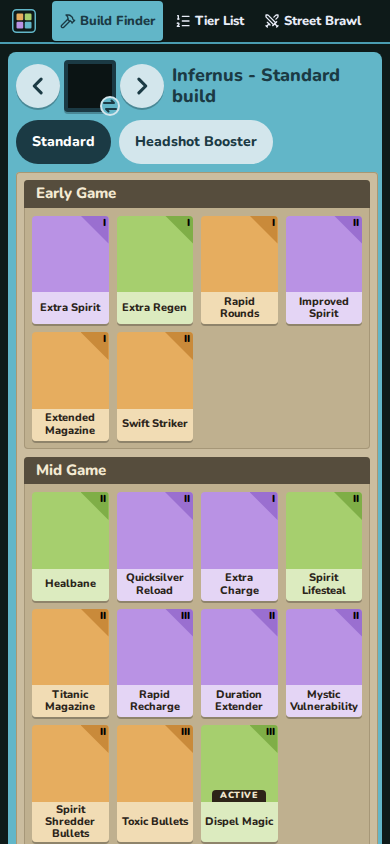
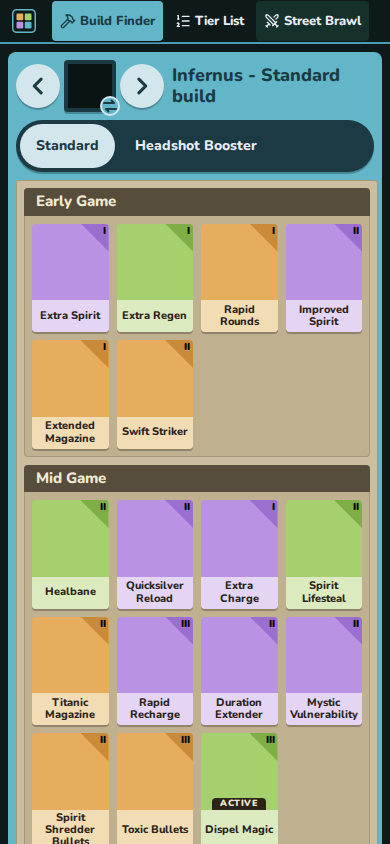
Hero portrait: two persistent imgs so rapid arrow clicks can't stack; build pills in a selector track
Claude-Session: https://claude.ai/code/session_012haXBU2g77nrAY4uXTCCai

diff --git a/src/App.tsx b/src/App.tsx
@@ -1,4 +1,4 @@
-import { useEffect, useMemo, useReducer, useState } from 'react';
+import { useEffect, useLayoutEffect, useMemo, useReducer, useRef, useState } from 'react';
 import type { Ability, Build, Hero, HeroAnalytics, Item } from './types';
 import { heroBackdrop, img, loadAnalytics, loadCore, preloadImage, type Manifest } from './data/load';
 import { generateBuilds } from './generator';
@@ -191,6 +191,43 @@ function useUrlState(active: boolean) {
   return { heroSlug, styleSlug, pickHero, pickStyle };
 }
 
+// Hero card portrait. Exactly two <img> elements live here forever (in and out); a step slides the
+// old hero out and the new one in with the Web Animations API, so rapid clicks can never leave a
+// stray portrait in the DOM the way keyed mount/unmount did.
+function HeroPortrait({ hero, dir, n }: { hero: Hero; dir: -1 | 0 | 1; n: number }) {
+  const inRef = useRef<HTMLImageElement>(null);
+  const outRef = useRef<HTMLImageElement>(null);
+  const prev = useRef<Hero>(hero);
+  const anims = useRef<Animation[]>([]);
+  const src = (h: Hero) => img(h.images.card ?? h.images.small);
+  useLayoutEffect(() => {
+    const before = prev.current;
+    prev.current = hero;
+    const inEl = inRef.current;
+    const outEl = outRef.current;
+    if (!inEl || !outEl) return;
+    anims.current.forEach((a) => a.cancel());
+    anims.current = [];
+    outEl.style.display = 'none';
+    if (!dir || before.id === hero.id || window.matchMedia('(prefers-reduced-motion: reduce)').matches) return;
+    outEl.src = src(before) ?? '';
+    Object.assign(outEl.style, heroBackdrop(before.id), { display: 'block' });
+    const opts = { duration: 240, easing: 'ease-out' };
+    const a1 = inEl.animate([{ transform: `translateX(${dir * 100}%)` }, { transform: 'translateX(0)' }], opts);
+    const a2 = outEl.animate([{ transform: 'translateX(0)' }, { transform: `translateX(${-dir * 100}%)` }], { ...opts, fill: 'forwards' as FillMode });
+    anims.current = [a1, a2];
+    a2.onfinish = () => {
+      outEl.style.display = 'none';
+    };
+  }, [hero.id, n]); // eslint-disable-line react-hooks/exhaustive-deps
+  return (
+    <span className="hero-stage">
+      <img ref={inRef} className="hero-in" src={src(hero)} alt="" width={280} height={380} style={heroBackdrop(hero.id)} />
+      <img ref={outRef} className="hero-out" src="" alt="" aria-hidden="true" width={280} height={380} style={{ display: 'none' }} />
+    </span>
+  );
+}
+
 export default function App({ active = true }: { active?: boolean }) {
   const { items, heroes, abilities, manifest, error } = useCore();
   const { heroSlug, styleSlug, pickHero, pickStyle } = useUrlState(active);
@@ -241,17 +278,11 @@ export default function App({ active = true }: { active?: boolean }) {
     pickHero(slugify(h.name));
   };
   const [slide, setSlide] = useState<{ dir: -1 | 0 | 1; n: number }>({ dir: 0, n: 0 });
-  // the portrait that just left, drawn on top while it slides out
-  const [leaving, setLeaving] = useState<{ hero: Hero; dir: -1 | 1; n: number } | null>(null);
-  const pickFromList = (h: Hero) => {
-    setLeaving(null);
-    selectHero(h);
-  };
+  const pickFromList = (h: Hero) => selectHero(h);
   const stepHero = (d: -1 | 1) => {
     const i = heroes.findIndex((h) => h.id === heroId);
     const next = heroes[(i + d + heroes.length) % heroes.length];
     if (next) {
-      if (hero) setLeaving((l) => ({ hero, dir: d, n: (l?.n ?? 0) + 1 }));
       selectHero(next);
       setSlide((s) => ({ dir: d, n: s.n + 1 }));
     }
@@ -272,10 +303,7 @@ export default function App({ active = true }: { active?: boolean }) {
 
   const [heroesOpen, setHeroesOpen] = useState(false);
   // display:none -> shown restarts CSS animations; drop the slide state while hidden so switching pages plays nothing
-  if (!active && (slide.dir !== 0 || leaving)) {
-    setSlide((s) => ({ dir: 0, n: s.n }));
-    setLeaving(null);
-  }
+  if (!active && slide.dir !== 0) setSlide((s) => ({ dir: 0, n: s.n }));
 
   if (error)
     return (
@@ -302,30 +330,7 @@ export default function App({ active = true }: { active?: boolean }) {
         <aside className="hero-side">
           <div className="hero-card">
             <button className="hero-face hero-btn" onClick={() => setHeroesOpen(true)} aria-label={`${hero.name}, change hero`}>
-              <img
-                key={hero.id}
-                className="hero-slide"
-                data-slide={slide.dir || undefined}
-                src={img(hero.images.card ?? hero.images.small)}
-                alt=""
-                width={280}
-                height={380}
-                style={heroBackdrop(hero.id)}
-              />
-              {leaving && (
-                <img
-                  key={leaving.n}
-                  className="hero-leave"
-                  data-slide={leaving.dir}
-                  src={img(leaving.hero.images.card ?? leaving.hero.images.small)}
-                  alt=""
-                  aria-hidden="true"
-                  width={280}
-                  height={380}
-                  style={heroBackdrop(leaving.hero.id)}
-                  onAnimationEnd={() => setLeaving(null)}
-                />
-              )}
+              <HeroPortrait hero={hero} dir={slide.dir} n={slide.n} />
               <span className="hero-name">{hero.name}</span>
               <SwapCue />
             </button>

diff --git a/src/index.css b/src/index.css
@@ -242,6 +242,27 @@ h3 {
 .pill:hover {
   background: #fff;
 }
+/* segmented selector: a dark track holds the build pills, the chosen one lights up */
+.style-switch {
+  align-items: center;
+  align-self: center;
+  gap: 4px;
+  padding: 4px;
+  border-radius: var(--radius-full);
+  background: var(--teal-ink);
+  box-shadow: var(--shadow-hard);
+}
+.style-switch .pill {
+  background: none;
+  color: var(--navy-ink);
+}
+.style-switch .pill:hover {
+  background: var(--navy);
+}
+.style-switch .pill[aria-pressed='true'] {
+  background: var(--pill);
+  color: var(--teal-ink);
+}
 .pill[aria-pressed='true'] {
   background: var(--teal-ink);
   color: #fff;
@@ -794,44 +815,26 @@ button.tile:hover {
     animation-iteration-count: 1 !important;
   }
 }
-@keyframes hero-slide-in {
-  from {
-    translate: calc(var(--slide-from) * 100%) 0;
-  }
-  to {
-    translate: 0% 0;
-  }
+.hero-stage {
+  display: block;
+  position: relative;
+  overflow: hidden;
+  width: 100%;
+  aspect-ratio: 280 / 380;
+  border-radius: var(--radius-sm);
 }
-.hero-slide[data-slide='1'] {
-  --slide-from: 1;
-  animation: hero-slide-in 240ms ease-out;
+.hero-stage img {
+  display: block;
+  width: 100%;
+  height: 100%;
+  object-fit: cover;
+  background: var(--avatar-bg);
 }
-.hero-slide[data-slide='-1'] {
-  --slide-from: -1;
-  animation: hero-slide-in 240ms ease-out;
-}
-@keyframes hero-slide-out {
-  from {
-    translate: 0% 0;
-  }
-  to {
-    translate: calc(var(--slide-to) * 100%) 0;
-  }
-}
-.hero-leave {
+.hero-stage .hero-out {
   position: absolute;
   top: 0;
   left: 0;
-  width: 100%;
   pointer-events: none;
-}
-.hero-leave[data-slide='1'] {
-  --slide-to: -1;
-  animation: hero-slide-out 240ms ease-out forwards;
-}
-.hero-leave[data-slide='-1'] {
-  --slide-to: 1;
-  animation: hero-slide-out 240ms ease-out forwards;
 }
 .hero-face {
   position: relative;
@@ -890,13 +893,8 @@ button.tile:hover {
     width: 100%;
     text-align: center;
   }
-  .hero-face img {
-    display: block;
-    width: 100%;
-    aspect-ratio: 280 / 380;
-    object-fit: cover;
-    background: var(--avatar-bg);
-    border-radius: var(--radius-sm);
+  .hero-face .hero-stage {
+    flex: none;
   }
   .hero-face .hero-name {
     display: flex;
@@ -1013,6 +1011,11 @@ button.tile:hover {
   .pills {
     flex: 1 1 0;
     flex-wrap: nowrap;
+  }
+  .style-switch {
+    flex: 0 1 auto;
+    min-width: 0;
+    overflow: hidden;
   }
   .pill {
     min-height: 40px;
